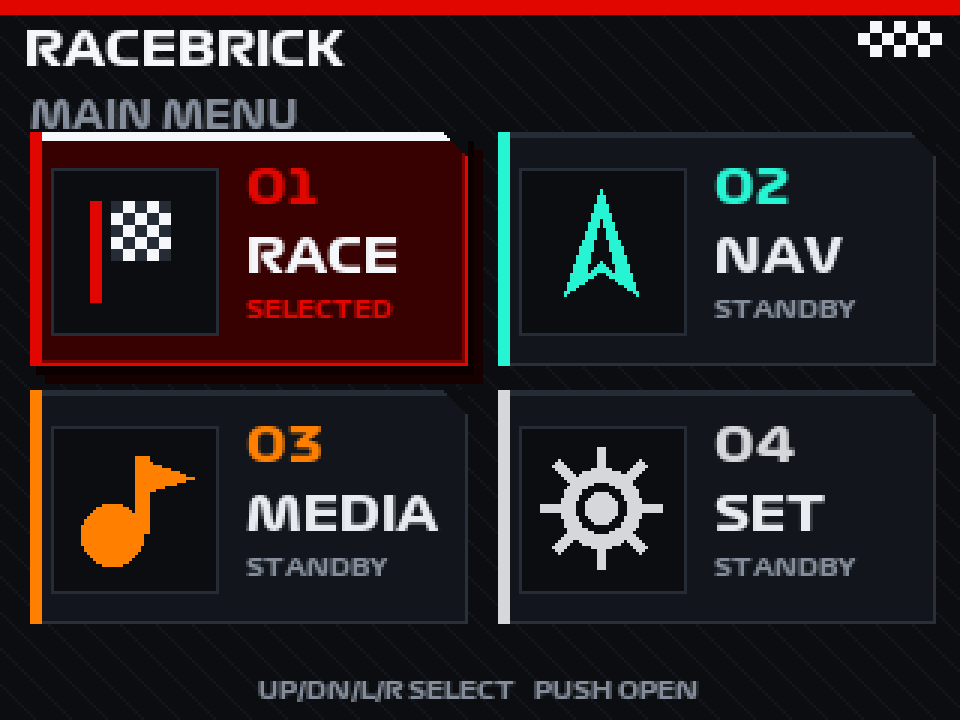
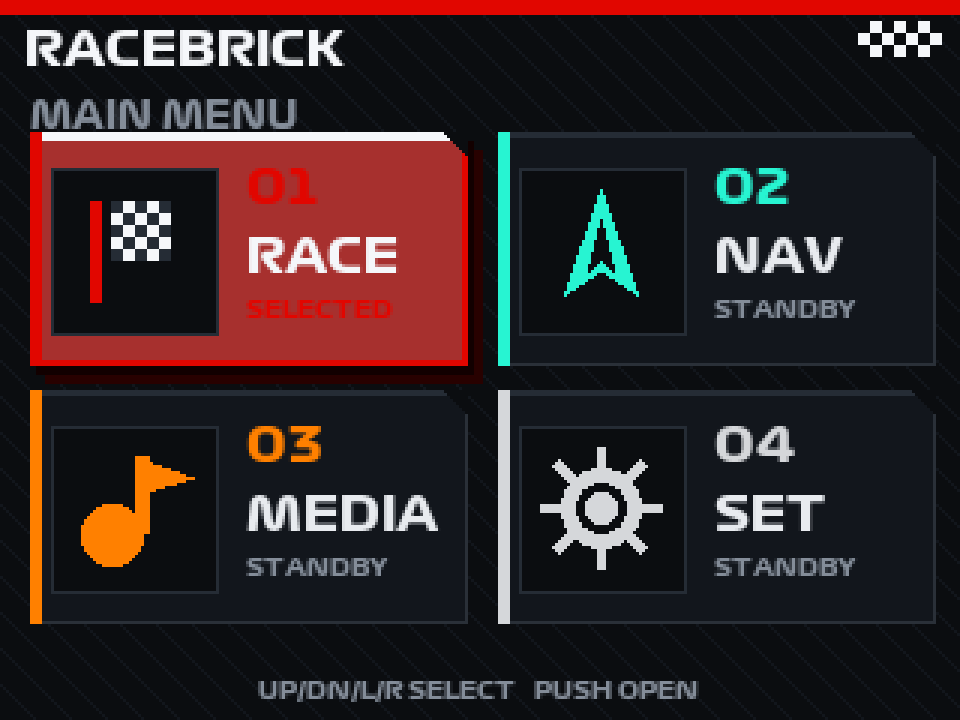
use soft team-colour fill for selected F1 home card

Changed region(s): [[0.0312, 0.1833, 0.5, 0.5194]]

diff --git a/firmware/src/screens.c b/firmware/src/screens.c
@@ -141,16 +141,26 @@ static uint16_t f1_dark(uint16_t c, int pct) {
     return (uint16_t)((r << 11) | (g << 5) | b);
 }
 
+/* Selected card: a light team-colour wash, not a near-black tint. */
+static uint16_t f1_selected(uint16_t c) {
+    int r = (c >> 11) & 0x1f, g = (c >> 5) & 0x3f, b = c & 0x1f;
+    int pr = (PAL.panel >> 11) & 0x1f, pg = (PAL.panel >> 5) & 0x3f, pb = PAL.panel & 0x1f;
+    r = (r * 55 + 31 * 15 + pr * 30) / 100;
+    g = (g * 55 + 63 * 15 + pg * 30) / 100;
+    b = (b * 55 + 31 * 15 + pb * 30) / 100;
+    return (uint16_t)((r << 11) | (g << 5) | b);
+}
+
 static void f1_panel(int x, int y, int w, int h, bool on, uint16_t accent) {
     if (on) {
         /* Drop shadow + a deeper accent wash make the selected card read as
          * a physical foreground tile instead of just another outline. */
-        gfx_fill(x + 5, y + 6, w, h, f1_dark(accent, 10));
-        gfx_fill(x + 2, y + 3, w, h, f1_dark(accent, 5));
+        gfx_fill(x + 5, y + 6, w, h, f1_dark(accent, 18));
+        gfx_fill(x + 2, y + 3, w, h, f1_dark(accent, 8));
     }
-    gfx_fill(x, y, w, h, on ? f1_dark(accent, 24) : PAL.panel);
+    gfx_fill(x, y, w, h, on ? f1_selected(accent) : PAL.panel);
     gfx_rect(x, y, w, h, on ? accent : PAL.line);
-    if (on) gfx_rect(x + 1, y + 1, w - 2, h - 2, f1_dark(accent, 55));
+    if (on) gfx_rect(x + 1, y + 1, w - 2, h - 2, accent);
     gfx_fill(x, y, 4, h, accent);
     gfx_fill(x + 4, y, w - 4, on ? 3 : 2, on ? PAL.white : PAL.line2);
     /* small clipped top-right corner, the F1 broadcast-card cue */
